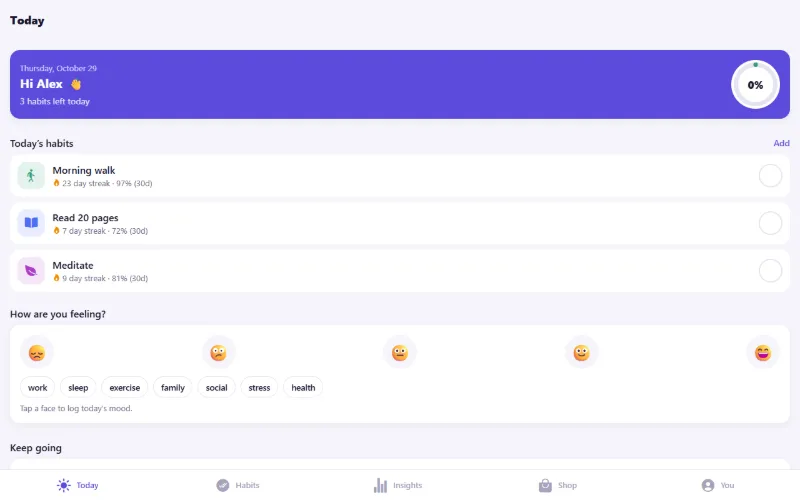
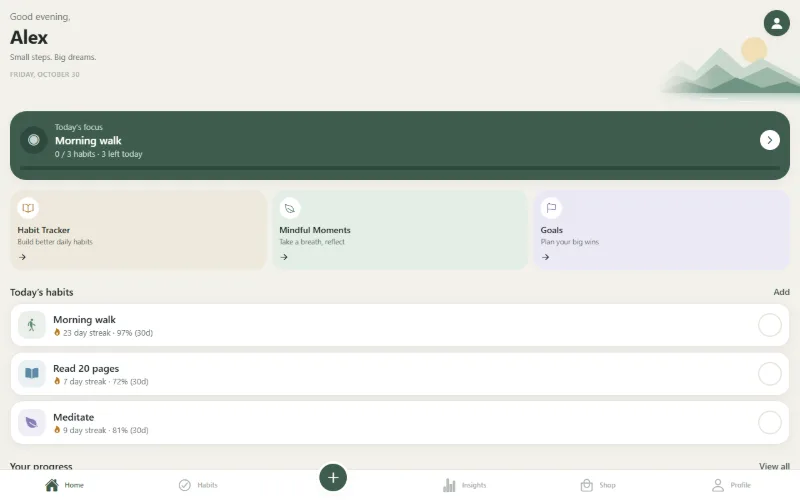
fix(ui): clamp project card text, steady hero on mobile, keep process auto-advance on touch

diff --git a/src/components/Work.tsx b/src/components/Work.tsx
@@ -67,7 +67,7 @@ export default function Work() {
           title="Featured"
           accent="Projects"
           align="left"
-          intro="Shopify stores, WordPress sites, data visualisation and web apps. The Shopify stores are live, so go and try them."
+          intro="Shopify stores, WordPress sites, data visualisation and web apps. The Shopify stores and the newer web apps are live, so go and try them."
         />
         <div className="reveal flex gap-3">
           <button type="button" className="icon-btn" onClick={() => scrollBy(-1)} disabled={page === 0} aria-controls="work-track">
@@ -102,7 +102,7 @@ export default function Work() {
           })}
         </div>
         <p className="sr-only" aria-live="polite">
-          Showing {shown.length} {filter === 'All' ? '' : filter} {shown.length === 1 ? 'project' : 'projects'}
+          {`Showing ${shown.length} ${filter === 'All' ? '' : `${filter} `}${shown.length === 1 ? 'project' : 'projects'}`}
         </p>
       </div>
 
@@ -144,7 +144,10 @@ export default function Work() {
                 </div>
 
                 <div className="flex flex-1 flex-col px-2.5 pt-4 pb-2">
-                  <p className="line-clamp-3 flex-1 text-sm text-muted">{project.body}</p>
+                  {/* flex-1 sits on the wrapper: on the clamped <p> itself it makes the box taller than three lines, so text shows past the ellipsis. */}
+                  <div className="flex-1">
+                    <p className="line-clamp-3 text-sm text-muted">{project.body}</p>
+                  </div>
                   <ul className="mt-4 flex flex-wrap gap-1.5" aria-label={`Stack used for ${project.title}`}>
                     {project.stack.slice(0, shownTags).map((item) => (
                       <li key={item} className="tag">

diff --git a/src/config/site.ts b/src/config/site.ts
@@ -489,7 +489,7 @@ export const projects: Project[] = [
     body: 'A multi-tenant SaaS that automates the lead lifecycle: it captures and scores leads, drafts follow-ups with an LLM, routes each lead to its owner and reports on results. Runs at zero cost, with a pluggable AI layer.',
     stack: ['Next.js', 'Multi-tenant SaaS', 'LLM integration', 'Lead scoring'],
     href: 'https://flowpilot-topaz.vercel.app/',
-    image: { src: '/work/flowpilot.webp', alt: 'FlowPilot landing page beside a lead qualification pipeline with each step marked complete', width: 800, height: 500 },
+    image: { src: '/work/flowpilot.webp', alt: 'Dark FlowPilot landing page with a qualified leads chart connected to webhooks, email, CSV import and alerts', width: 800, height: 500 },
   },
   {
     title: 'Momentum',
@@ -497,7 +497,7 @@ export const projects: Project[] = [
     body: 'A zero-cost, local-first mobile app for personal growth, covering everything from daily habit tracking to monetization and admin, with no live backend services needed to run it.',
     stack: ['React Native', 'Expo', 'Local-first', 'Mobile app'],
     href: 'https://monentum.vercel.app',
-    image: { src: '/work/momentum.webp', alt: 'Momentum Today screen with a daily greeting, three habits with streaks and a mood check-in', width: 800, height: 500 },
+    image: { src: '/work/momentum.webp', alt: 'Momentum home screen with a greeting, today’s focus, habit, mindfulness and goal shortcuts, and three habits with streaks', width: 800, height: 500 },
   },
   {
     title: 'Vaultmarket',

diff --git a/src/components/Process.tsx b/src/components/Process.tsx
@@ -30,7 +30,12 @@ export default function Process() {
 
   return (
     <Section id="process">
-      <div className="container-page" onMouseEnter={() => setHovering(true)} onMouseLeave={() => setHovering(false)}>
+      {/* Mouse only: a tap fires mouseenter with no matching mouseleave, which would pause auto-advance for good. */}
+      <div
+        className="container-page"
+        onPointerEnter={(event) => event.pointerType === 'mouse' && setHovering(true)}
+        onPointerLeave={(event) => event.pointerType === 'mouse' && setHovering(false)}
+      >
         <SectionHeading
           id="process"
           pill="Process"

diff --git a/src/components/Hero.tsx b/src/components/Hero.tsx
@@ -51,7 +51,8 @@ export default function Hero() {
           Meet {first} <span className="text-accent">{rest.join(' ')}</span>
         </h1>
 
-        <p className="mt-5 text-lg text-muted sm:text-xl">
+        {/* Two lines reserved on phones, where the longer roles wrap, so the page doesn't jump while typing. */}
+        <p className="mt-5 min-h-[2lh] text-lg text-muted sm:min-h-0 sm:text-xl">
           <span className="sr-only">{site.role}</span>
           <span aria-hidden="true">
             A Senior <span className="font-semibold text-text">{typed}</span>

diff --git a/vite.config.ts b/vite.config.ts
@@ -6,4 +6,8 @@ import { identityHtml } from './identity-html.ts';
 
 export default defineConfig({
   plugins: [react(), tailwindcss(), identityHtml()],
+  // "localhost" resolves to both ::1 and 127.0.0.1 on Windows; Vite would bind only one of them and the
+  // browser could pick the other ("connection refused"). Bind IPv4 explicitly.
+  server: { host: '127.0.0.1' },
+  preview: { host: '127.0.0.1' },
 });
